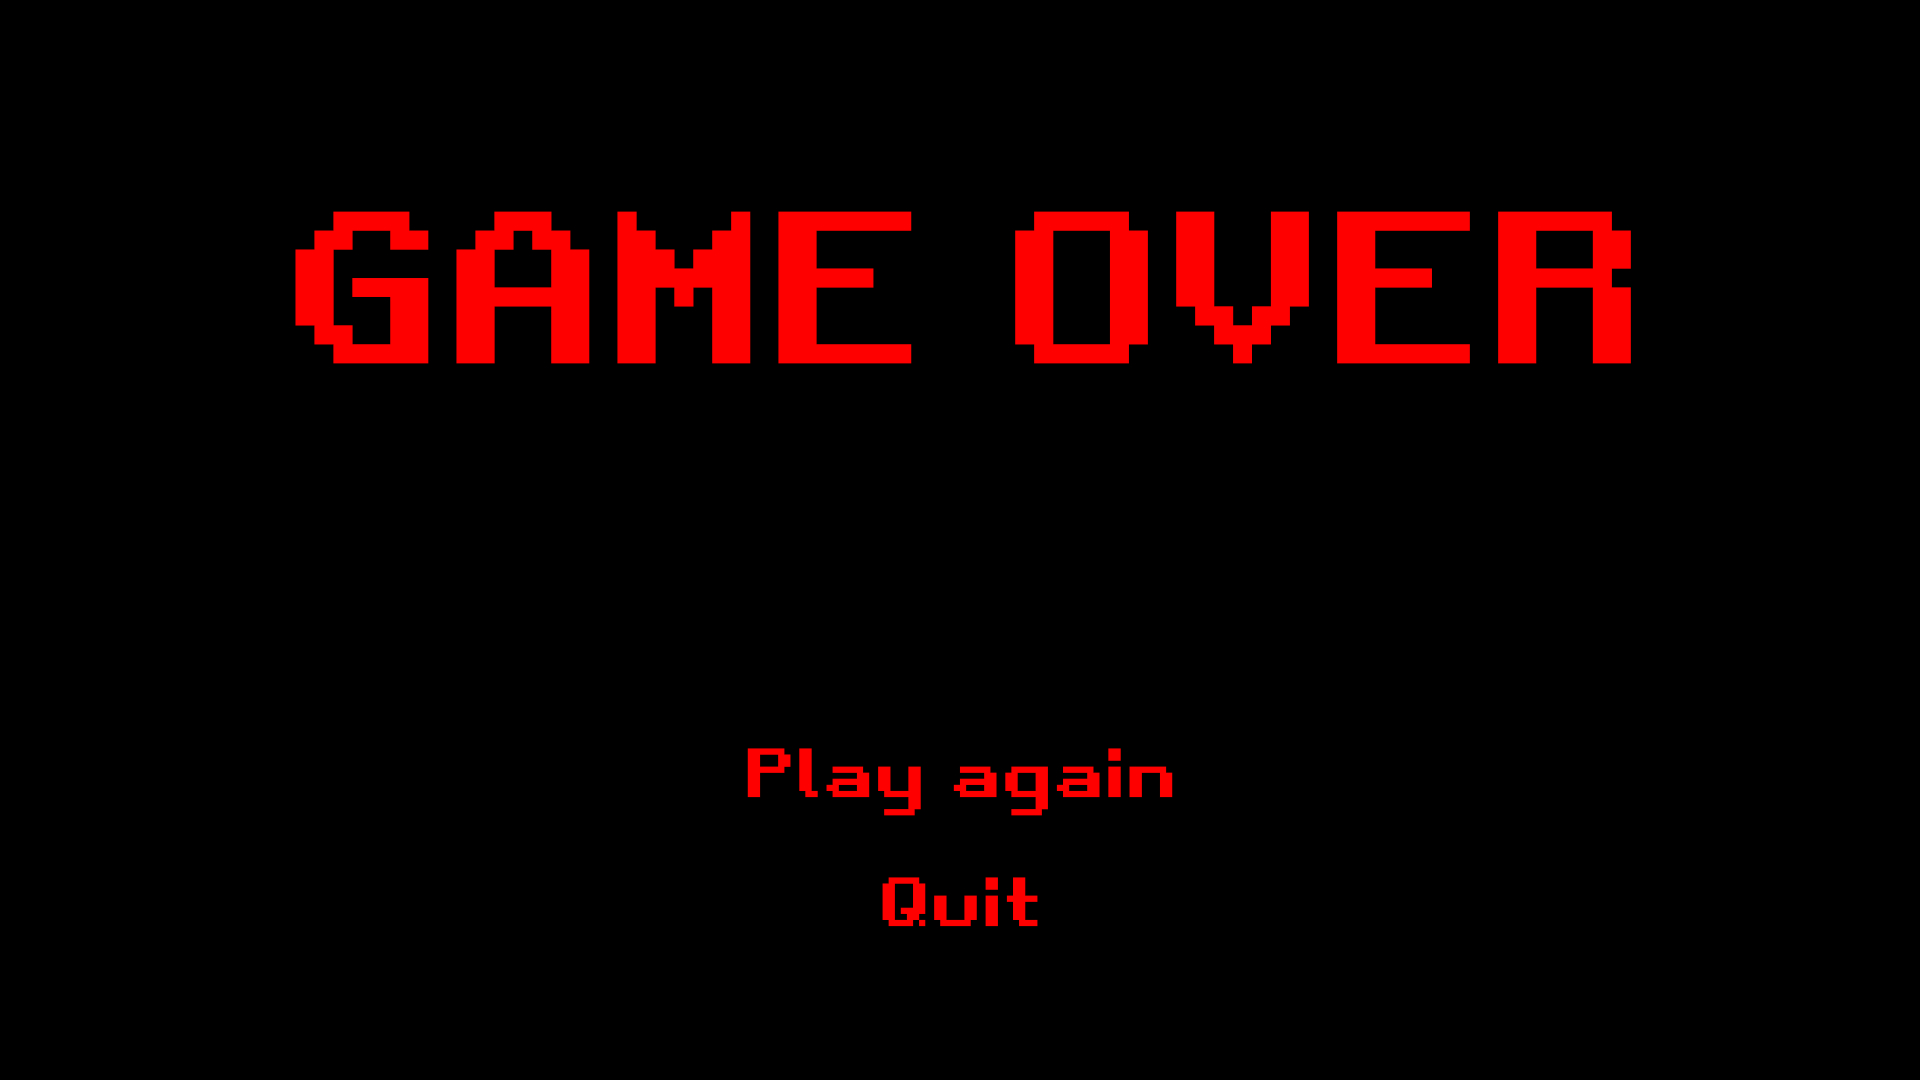
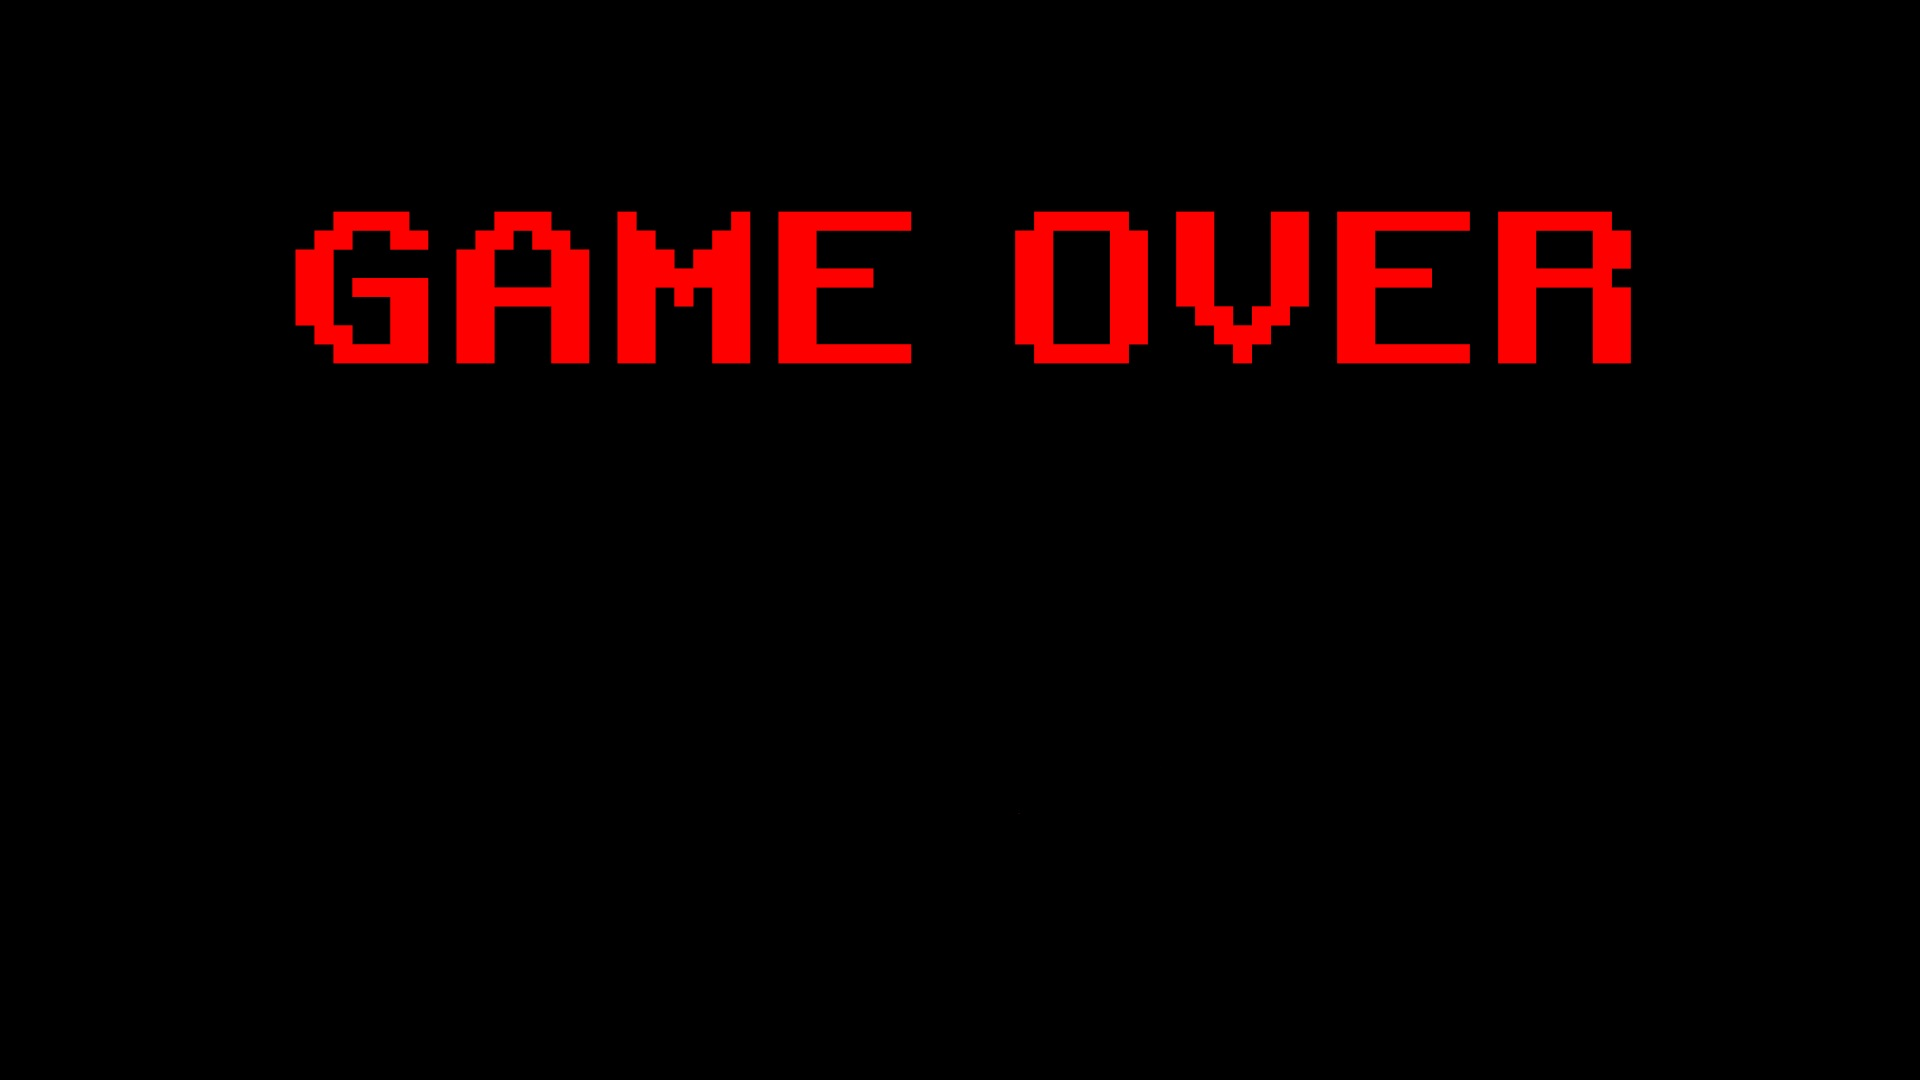
made it possible to restart game

diff --git a/MazeGame/src/main/java/EventHandler/EventHandler.java b/MazeGame/src/main/java/EventHandler/EventHandler.java
@@ -89,6 +89,15 @@ public class EventHandler {
                     game.setGameStateToHowToPlay();
                     ui.RenderHowToPlay();
                 }
+            } else if (game.getGameState().equals(Game.GameState.LOST) && mouse.getScreenX() >= screenWidth / 7 * 3 && mouse.getScreenX() <= screenWidth / 7 * 4) {
+                if (mouse.getScreenY() >= screenHeight / 9 * 5 && mouse.getScreenY() <= screenHeight / 9 * 5 + screenHeight / 10) {
+                    game.setGameToRun();
+                    ui.RenderGame(game.getMyMaze(),game.getPlayer(),game.getEnemyList(),game.getRewardList(),game.getTrapList(),game.getPlayerScore());
+                    gameLoop();
+                } else if (mouse.getScreenY() >= screenHeight / 9 * 6 && mouse.getScreenY() <= screenHeight / 9 * 6 + screenHeight / 10) {
+                    game.setGameStateToStart();
+                    ui.RenderMenu();
+                }
             }
         });
 
@@ -101,14 +110,16 @@ public class EventHandler {
     public void gameLoop() {
 
         Timer t = new Timer();
+
         TimerTask tt = new TimerTask() {
             @Override
             public void run() {
                 game.runOneTick();
                 ui.RenderGame(game.getMyMaze(),game.getPlayer(),game.getEnemyList(),game.getRewardList(),game.getTrapList(),game.getPlayerScore());
+
                 if (game.isGameLost()) {
                     ui.RenderGameOver();
-                    return;
+                    t.cancel();
                 }
             }
 

diff --git a/MazeGame/src/main/java/UI/UI.java b/MazeGame/src/main/java/UI/UI.java
@@ -41,6 +41,8 @@ public class UI {
 	private Image enemy;
 	private Image reward;
 	private Image trap;
+	private Image playAgainButton;
+	private Image quitButton;
 
 	// These are what we multiply cell width to get the location where to render score
 	private final double scoreXMultiplier = 15.0;
@@ -89,6 +91,8 @@ public class UI {
 		trap = ImportImage("/spike_4.png", screenWidth * screenWidthMultiplier, screenHeight * screenHeightMultiplier);
 		howToPlayScreen = ImportImage("/HowToPlayScreen.jpg", screenWidth, screenHeight);
 		gameOverScreen = ImportImage("/GameOver.jpg", screenWidth, screenHeight);
+		playAgainButton = ImportImage("/PlayAgain.jpg", screenWidth / 7, screenHeight / 10);
+		quitButton = ImportImage("/Quit.jpg", screenWidth / 7, screenHeight / 10);
 
 		RenderMenu();
 	}
@@ -197,6 +201,8 @@ public class UI {
 	public void RenderGameOver() {
 		ClearCanvas();
 		graphicsContext.drawImage(gameOverScreen, 0, 0);
+		graphicsContext.drawImage(playAgainButton, screenWidth / 7 * 3, screenHeight / 9 * 5);
+		graphicsContext.drawImage(quitButton, screenWidth / 7 * 3, screenHeight / 9 * 6);
 	}
 
 }
